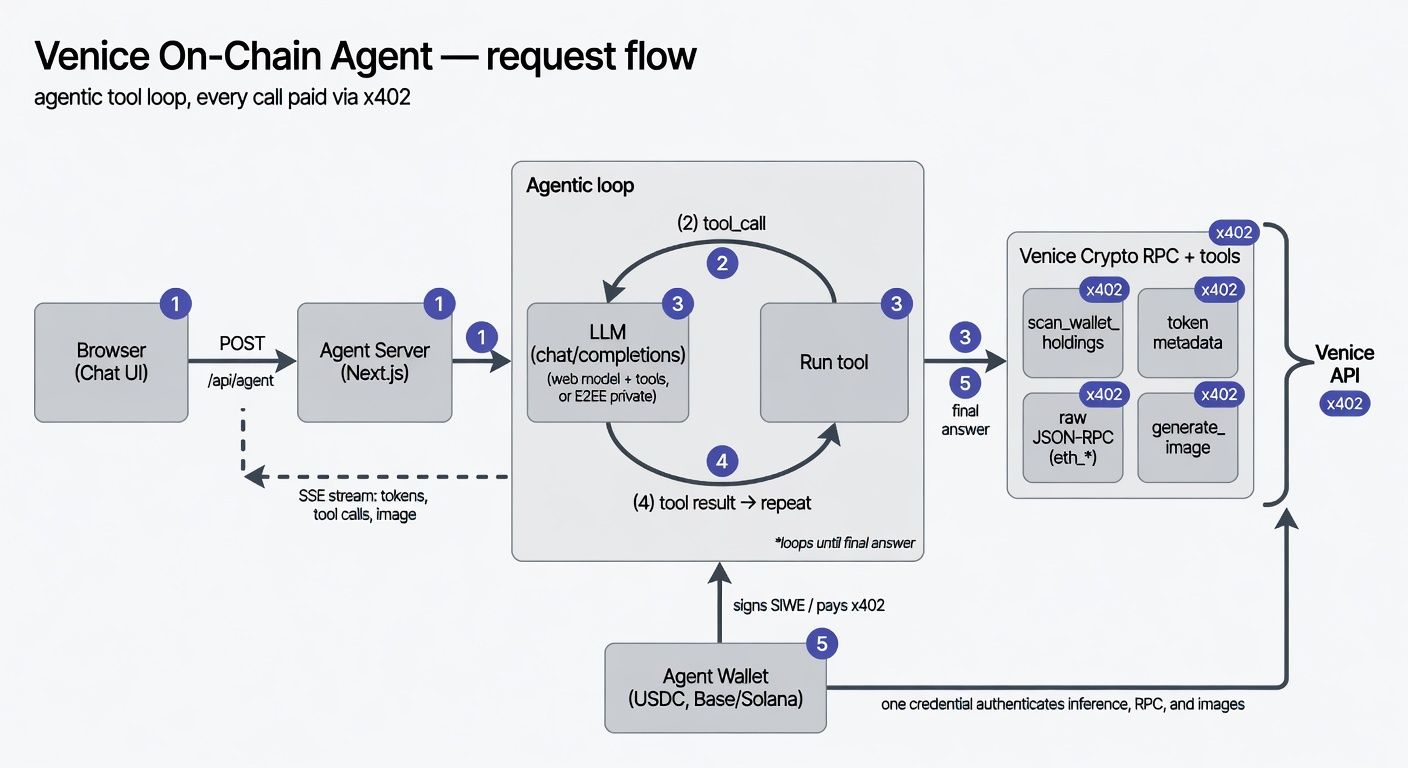
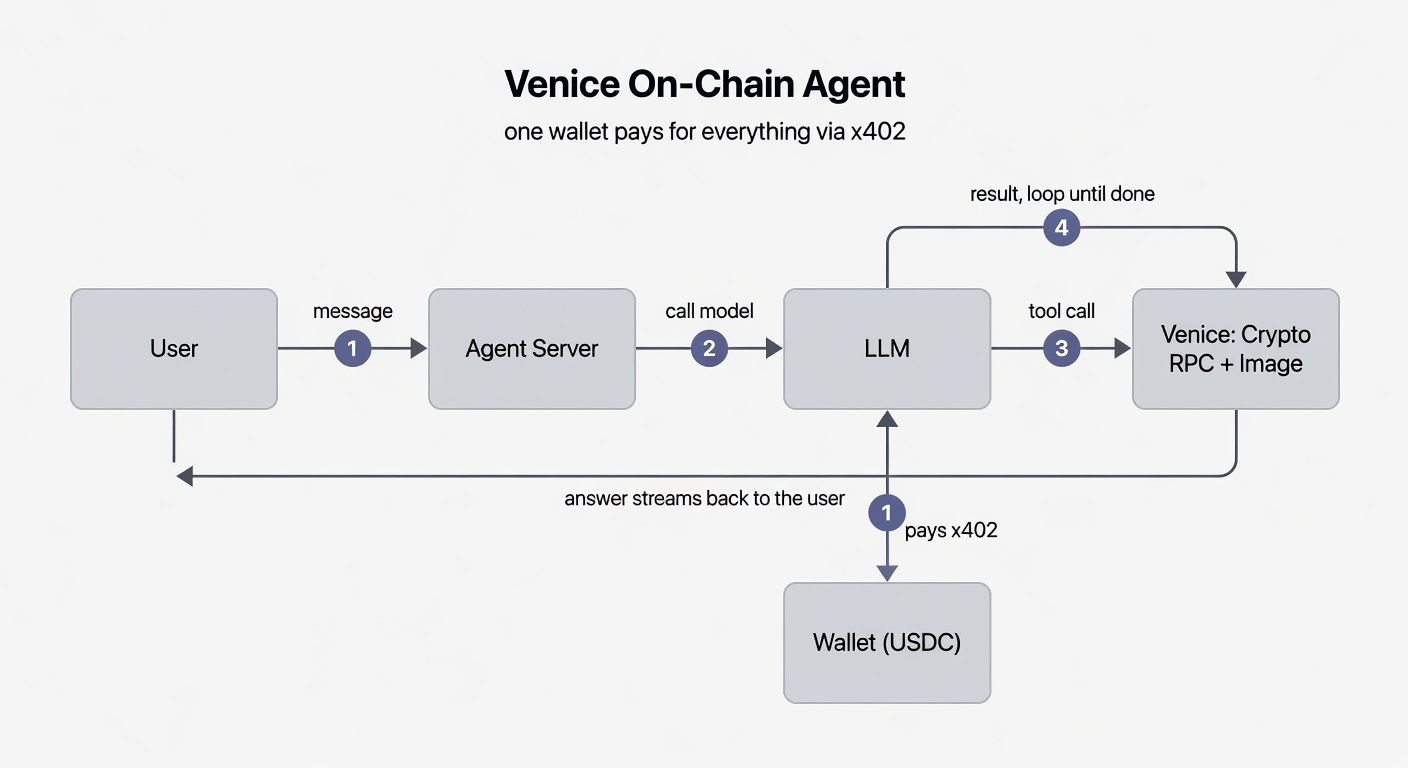
docs: overview + technical architecture diagrams
Use the v6 flow as the README hero (overview) and add a layered technical architecture diagram in How it works.

diff --git a/README.md b/README.md
@@ -7,7 +7,7 @@ Crypto RPC** tools on demand, reasons with a top web model (or a fully private
 on-chain RPC, and image generation — is paid from a single wallet via **x402**.
 No API key anywhere.
 
-![Architecture](./venice-agent-architecture.png)
+![Venice On-Chain Agent — overview](./venice-agent-architecture.png)
 
 ## Highlights
 
@@ -74,14 +74,7 @@ an encrypted, no-tools conversation.
 
 ## How it works
 
-```
-Browser chat ──▶ /api/agent (SSE) ──▶ VeniceClient (x402 wallet auth)
-                                            │  signs Sign-In-With-X per call
-        ┌───────────────────────────────────┼───────────────────────────────┐
-        ▼                                    ▼                               ▼
-  Chat Completions                     Crypto RPC                     Image Generation
-  (web + tools, or E2EE)         (live balances, tokens, logs)      (Grok Imagine HQ)
-```
+![Architecture — layered view](./venice-agent-architecture-technical.png)
 
 The model is given on-chain **tools** and calls them across multiple rounds; the
 server runs each tool, streams the result back, and loops until the model answers.